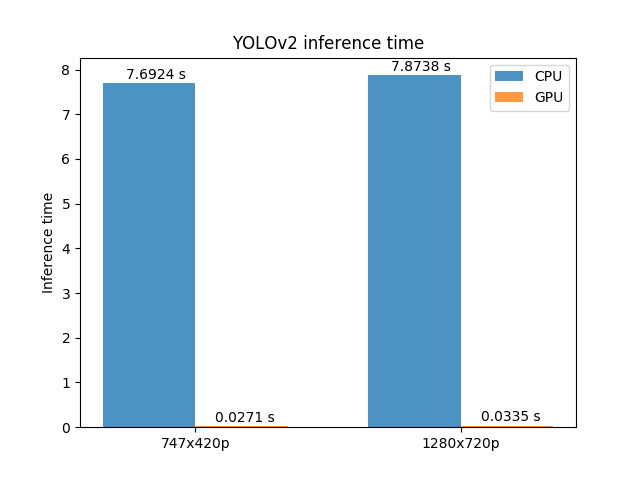
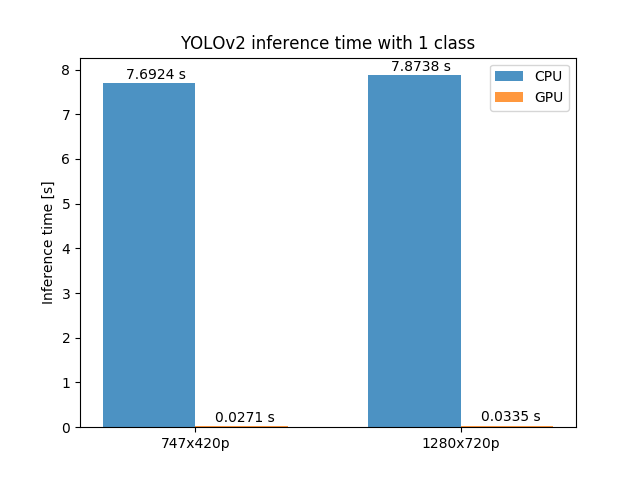
fix graphs

Changed region(s): [[0.2812, 0.0625, 0.75, 0.125], [0.0625, 0.375, 0.0938, 0.625]]

diff --git a/Implementatie/validation/lok_speed.py b/Implementatie/validation/lok_speed.py
@@ -10,14 +10,17 @@ if __name__ == "__main__":
     speed_non_seg = np.array(speed_non_seg, dtype=float)
 
     # Speed plot
-    plt.plot(speed_seg[:, 5])
-    plt.plot(speed_non_seg[:, 5])
+    fig, ax = plt.subplots()
+    ax.boxplot([speed_seg[:, 5], speed_non_seg[:, 5]], 0, '')
+    # plt.plot(speed_seg[:, 5])
+    # plt.plot(speed_non_seg[:, 5])
+    ax.set_xticklabels(["With segmentation", "Without segmentation"])
 
-    plt.xlabel("Input Frame")
-    plt.ylabel("Calculation time")
+    # plt.xlabel("Input Frame")
+    plt.ylabel("Calculation time [s]")
     plt.legend([
-        'With segmentation: {}'.format(round(np.mean(speed_seg[:, 5]), 3)),
-        'Without segmentation: {}'.format(round(np.mean(speed_non_seg[:, 5]), 3))
+        'With segmentation: mean = {} s'.format(round(np.mean(speed_seg[:, 5]), 3)),
+        'Without segmentation: mean = {} s'.format(round(np.mean(speed_non_seg[:, 5]), 3))
     ])
     plt.title("Location calculation speed on GPU")
     plt.show()

diff --git a/Implementatie/validation.py b/Implementatie/validation.py
@@ -113,12 +113,14 @@ if __name__ == "__main__":
     e1 = test_hough(args.input_path, images)
     e2, e3 = test_seg(args.input_path, images)
 
-    # Plot
-    plt.plot(e1)
-    plt.plot(e2)
-    plt.plot(e3)
+    fig, ax = plt.subplots()
+    ax.boxplot([e1, e2, e3])
+    ax.set_xticklabels(["Hough transform", "Seg Highest pixel", "Seg Hough"])
 
-    plt.xlabel("Test image")
     plt.ylabel("Euclidean error")
-    plt.legend(['Hough transform: {}'.format(round(np.mean(e1), 3)), 'Seg Highest pixel: {}'.format(round(np.mean(e2),3)), 'Seg Hough: {}'.format(round(np.mean(e3),3))])
+    plt.legend([
+        'Hough transform: error: {}, σ: {}'.format(round(np.mean(e1), 3), round(np.std(e1), 3)),
+        'Seg Highest pixel: error: {}, σ: {}'.format(round(np.mean(e2),3), round(np.std(e1), 3)),
+        'Seg Hough: error: {}, σ: {}'.format(round(np.mean(e3),3), round(np.std(e1), 3))
+    ])
     plt.show()

diff --git a/experiments/bar_graph_seg.py b/experiments/bar_graph_seg.py
@@ -4,14 +4,14 @@ import matplotlib.pyplot as plt
 # Data to plot
 n_groups = 2
 # GPU Data
-means_hp = [0.1650, 0.4230]
-means_seg = [0.1708, 0.4878]
-means_hough = [0.0145, 0.0201]
+# means_hp = [0.1650, 0.4230]
+# means_seg = [0.1708, 0.4878]
+# means_hough = [0.0145, 0.0201]
 
 # CPU Data
-# means_hp = [0.9393, 2.6309]
-# means_seg = [0.9422, 2.6463]
-# means_hough = [0.0150, 0.0189]
+means_hp = [0.9393, 2.6309]
+means_seg = [0.9422, 2.6463]
+means_hough = [0.0150, 0.0189]
 
 # create plot
 fig, ax = plt.subplots()
@@ -31,8 +31,8 @@ rects2 = plt.bar(index + bar_width, means_hough, bar_width,
 alpha=opacity,
 label='Hough transform')
 
-plt.ylabel('Detection time')
-plt.title('VP detection time on GPU')
+plt.ylabel('Detection time [s]')
+plt.title('VP detection time on CPU')
 plt.xticks(index, ('747x420p', '1280x720p'))
 plt.legend()
 

diff --git a/Implementatie/speed_yolo.py b/Implementatie/speed_yolo.py
@@ -53,7 +53,7 @@ if __name__ == "__main__":
     plt.plot(time_data, label="Time")
     plt.plot(mean_data, label="Average time: {}s".format(round(mean_gpu,4)))
     plt.suptitle('Inference time YOLOv2 on {}'.format("CPU" if run_cpu else "GPU"))
-    plt.ylabel("Inference time")
+    plt.ylabel("Inference time [s]")
     plt.xlabel("Input frame")
     plt.legend()
     plt.show()

diff --git a/experiments/bar_graph.py b/experiments/bar_graph.py
@@ -21,8 +21,8 @@ rects2 = plt.bar(index + bar_width, means_gpu, bar_width,
 alpha=opacity,
 label='GPU')
 
-plt.ylabel('Inference time')
-plt.title('YOLOv2 inference time')
+plt.ylabel('Inference time [s]')
+plt.title('YOLOv2 inference time with 1 class')
 plt.xticks(index + bar_width/2, ('747x420p', '1280x720p'))
 plt.legend()
 
